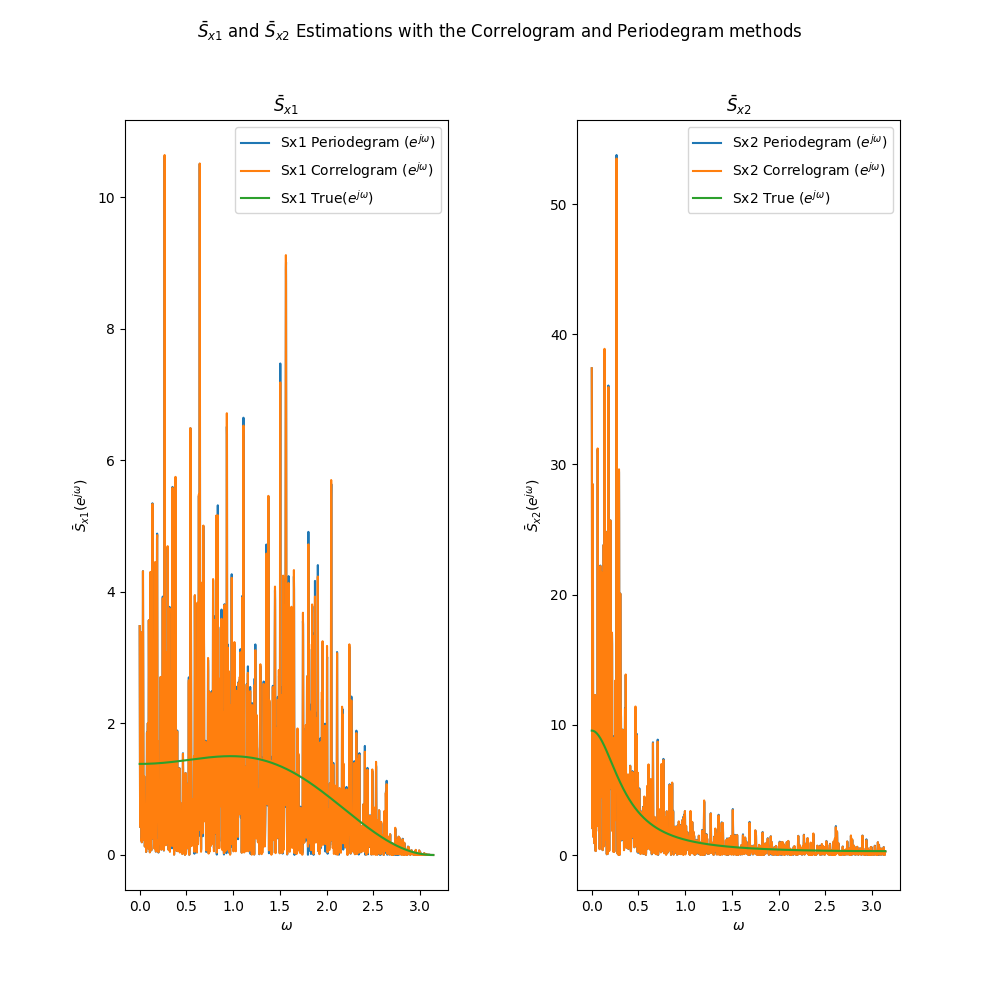
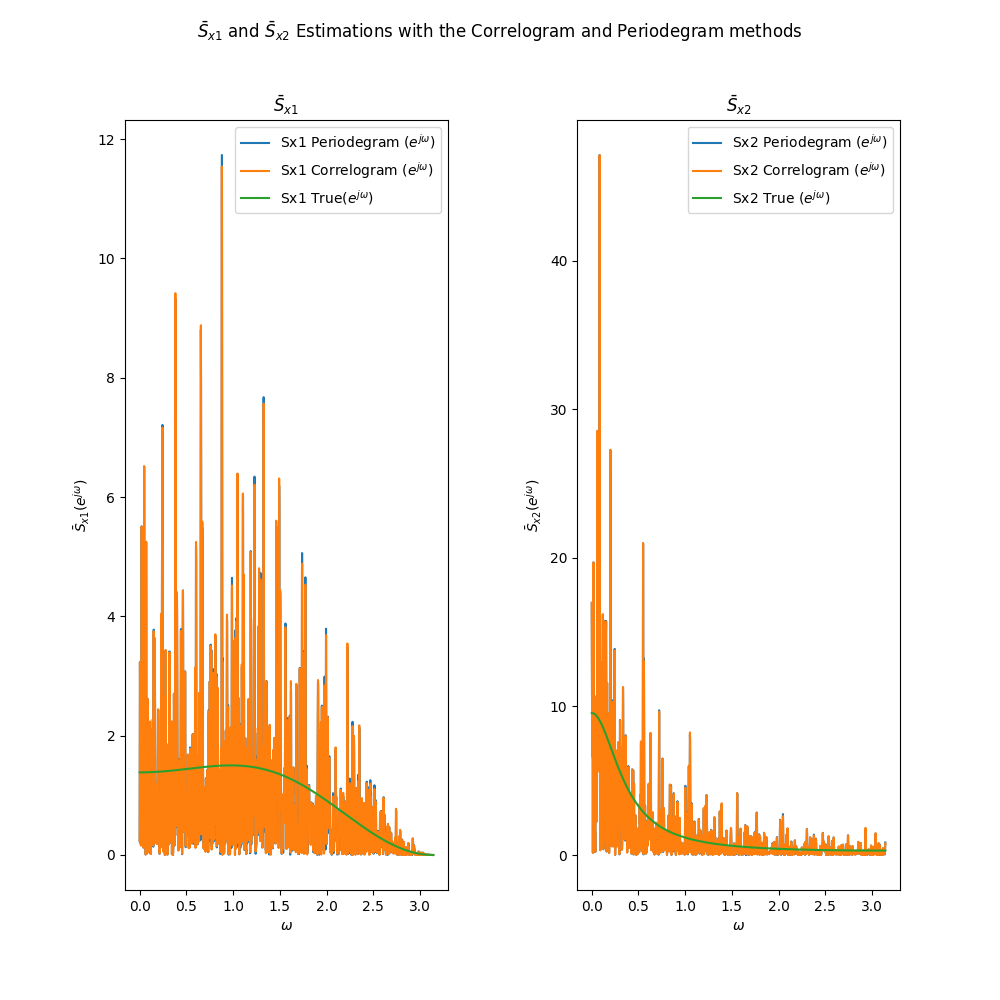
q4 finished

Changed region(s): [[0.124, 0.279, 0.434, 0.868], [0.589, 0.155, 0.899, 0.868]]

diff --git a/code_ex_1/spectral_estimation.py b/code_ex_1/spectral_estimation.py
@@ -34,7 +34,7 @@ def gen_signals(sigma_w1=np.sqrt(1/26),n1=1024,sigma_w2=np.sqrt(0.86),n2=2048): 
     x2 = x2_tmp[-1024:]
     return x1,x2
 
-Mc = 100
+Mc = 1
 Sx1_per = np.empty((Mc,2049))
 Sx1_cor = np.empty((Mc,2049))
 Sx1_bartlet_64 = np.empty((Mc,2049))
@@ -77,23 +77,28 @@ for i in tqdm(range(Mc)):
 
 #analysing stats
 #x1
-Sx1_per_bar,Sx1_per_bias,Sx1_per_var,Sx1_per_mse = get_all_stats(Sx1_per,Sx1_analytic)
-Sx1_cor_bar,Sx1_cor_bias,Sx1_cor_var,Sx1_cor_mse = get_all_stats(Sx1_cor,Sx1_analytic)
-Sx1_bartlet_64_bar,Sx1_bartlet_64_bias,Sx1_bartlet_64_var,Sx1_bartlet_64_mse = get_all_stats(Sx1_bartlet_64,Sx1_analytic)
-Sx1_bartlet_16_bar,Sx1_bartlet_16_bias,Sx1_bartlet_16_var,Sx1_bartlet_16_mse = get_all_stats(Sx1_bartlet_16,Sx1_analytic)
-Sx1_welch_64_bar,Sx1_welch_64_bias,Sx1_welch_64_var,Sx1_welch_64_mse = get_all_stats(Sx1_welch_64,Sx1_analytic)
-Sx1_welch_16_bar,Sx1_welch_16_bias,Sx1_welch_16_var,Sx1_welch_16_mse = get_all_stats(Sx1_welch_16,Sx1_analytic)
-Sx1_bt_4_bar,Sx1_bt_4_bias,Sx1_bt_4_var,Sx1_bt_4_mse = get_all_stats(Sx1_bt_4,Sx1_analytic)
-Sx1_bt_2_bar,Sx1_bt_2_bias,Sx1_bt_2_var,Sx1_bt_2_mse = get_all_stats(Sx1_bt_2,Sx1_analytic)
+Sx1_per_bar,Sx1_per_bias,Sx1_per_var,Sx1_per_mse,Sx1_per_total_bias,Sx1_per_total_var,Sx1_per_total_mse = get_all_stats(Sx1_per,Sx1_analytic)
+Sx1_cor_bar,Sx1_cor_bias,Sx1_cor_var,Sx1_cor_mse,Sx1_cor_total_bias,Sx1_cor_total_var,Sx1_cor_total_mse = get_all_stats(Sx1_cor,Sx1_analytic)
+Sx1_bartlet_64_bar,Sx1_bartlet_64_bias,Sx1_bartlet_64_var,Sx1_bartlet_64_mse,Sx1_bartlet_64_total_bias,Sx1_bartlet_64_total_var,Sx1_bartlet_64_total_mse = get_all_stats(Sx1_bartlet_64,Sx1_analytic)
+Sx1_bartlet_16_bar,Sx1_bartlet_16_bias,Sx1_bartlet_16_var,Sx1_bartlet_16_mse,Sx1_bartlet_16_total_bias,Sx1_bartlet_16_total_var,Sx1_bartlet_16_total_mse = get_all_stats(Sx1_bartlet_16,Sx1_analytic)
+Sx1_welch_64_bar,Sx1_welch_64_bias,Sx1_welch_64_var,Sx1_welch_64_mse,Sx1_welch_64_total_bias,Sx1_welch_64_total_var,Sx1_welch_64_total_mse = get_all_stats(Sx1_welch_64,Sx1_analytic)
+Sx1_welch_16_bar,Sx1_welch_16_bias,Sx1_welch_16_var,Sx1_welch_16_mse,Sx1_welch_16_total_bias,Sx1_welch_16_total_var,Sx1_welch_16_total_mse = get_all_stats(Sx1_welch_16,Sx1_analytic)
+Sx1_bt_4_bar,Sx1_bt_4_bias,Sx1_bt_4_var,Sx1_bt_4_mse,Sx1_bt_4_total_bias,Sx1_bt_4_total_var,Sx1_bt_4_total_mse = get_all_stats(Sx1_bt_4,Sx1_analytic)
+Sx1_bt_2_bar,Sx1_bt_2_bias,Sx1_bt_2_var,Sx1_bt_2_mse,Sx1_bt_2_total_bias,Sx1_bt_2_total_var,Sx1_bt_2_total_mse = get_all_stats(Sx1_bt_2,Sx1_analytic)
 #x2
-Sx2_per_bar,Sx2_per_bias,Sx2_per_var,Sx2_per_mse = get_all_stats(Sx2_per,Sx2_analytic)
-Sx2_cor_bar,Sx2_cor_bias,Sx2_cor_var,Sx2_cor_mse = get_all_stats(Sx2_cor,Sx2_analytic)
-Sx2_bartlet_64_bar,Sx2_bartlet_64_bias,Sx2_bartlet_64_var,Sx2_bartlet_64_mse = get_all_stats(Sx2_bartlet_64,Sx2_analytic)
-Sx2_bartlet_16_bar,Sx2_bartlet_16_bias,Sx2_bartlet_16_var,Sx2_bartlet_16_mse = get_all_stats(Sx2_bartlet_16,Sx2_analytic)
-Sx2_welch_64_bar,Sx2_welch_64_bias,Sx2_welch_64_var,Sx2_welch_64_mse = get_all_stats(Sx2_welch_64,Sx2_analytic)
-Sx2_welch_16_bar,Sx2_welch_16_bias,Sx2_welch_16_var,Sx2_welch_16_mse = get_all_stats(Sx2_welch_16,Sx2_analytic)
-Sx2_bt_4_bar,Sx2_bt_4_bias,Sx2_bt_4_var,Sx2_bt_4_mse = get_all_stats(Sx2_bt_4,Sx2_analytic)
-Sx2_bt_2_bar,Sx2_bt_2_bias,Sx2_bt_2_var,Sx2_bt_2_mse = get_all_stats(Sx2_bt_2,Sx2_analytic)
+Sx2_per_bar,Sx2_per_bias,Sx2_per_var,Sx2_per_mse,Sx2_per_total_bias,Sx2_per_total_var,Sx2_per_total_mse = get_all_stats(Sx2_per,Sx2_analytic)
+Sx2_cor_bar,Sx2_cor_bias,Sx2_cor_var,Sx2_cor_mse,Sx2_cor_total_bias,Sx2_cor_total_var,Sx2_cor_total_mse = get_all_stats(Sx2_cor,Sx2_analytic)
+Sx2_bartlet_64_bar,Sx2_bartlet_64_bias,Sx2_bartlet_64_var,Sx2_bartlet_64_mse,Sx2_bartlet_64_total_bias,Sx2_bartlet_64_total_var,Sx2_bartlet_64_total_mse = get_all_stats(Sx2_bartlet_64,Sx2_analytic)
+Sx2_bartlet_16_bar,Sx2_bartlet_16_bias,Sx2_bartlet_16_var,Sx2_bartlet_16_mse,Sx2_bartlet_16_total_bias,Sx2_bartlet_16_total_var,Sx2_bartlet_16_total_mse = get_all_stats(Sx2_bartlet_16,Sx2_analytic)
+Sx2_welch_64_bar,Sx2_welch_64_bias,Sx2_welch_64_var,Sx2_welch_64_mse,Sx2_welch_64_total_bias,Sx2_welch_64_total_var,Sx2_welch_64_total_mse = get_all_stats(Sx2_welch_64,Sx2_analytic)
+Sx2_welch_16_bar,Sx2_welch_16_bias,Sx2_welch_16_var,Sx2_welch_16_mse,Sx2_welch_16_total_bias,Sx2_welch_16_total_var,Sx2_welch_16_total_mse = get_all_stats(Sx2_welch_16,Sx2_analytic)
+Sx2_bt_4_bar,Sx2_bt_4_bias,Sx2_bt_4_var,Sx2_bt_4_mse,Sx2_bt_4_total_bias,Sx2_bt_4_total_var,Sx2_bt_4_total_mse = get_all_stats(Sx2_bt_4,Sx2_analytic)
+Sx2_bt_2_bar,Sx2_bt_2_bias,Sx2_bt_2_var,Sx2_bt_2_mse,Sx2_bt_2_total_bias,Sx2_bt_2_total_var,Sx2_bt_2_total_mse = get_all_stats(Sx2_bt_2,Sx2_analytic)
+
+
+#q4 stats
+
+Sx1_per_total_bias = total_bias(Sx1_per_bias)
 
 
 #plots######

diff --git a/code_ex_1/utils.py b/code_ex_1/utils.py
@@ -25,12 +25,25 @@ def get_var(Sx,Sx_true,M=4096):
 def get_MSE(var,bias):
     return var + bias**2
 
+def total_bias(B):
+    return np.sum(B)/len(B)
+def total_var(var):
+    return np.sum(var)/len(var)
+def total_mse(mse):
+    return np.sum(mse)/len(mse)
+
 def get_all_stats(Sx,Sx_true,M=4096):
     Sx_bar = get_Sx_bar(Sx)
     B = get_bias(Sx_bar,Sx_true)
     var = get_var(Sx,Sx_true)
     mse = get_MSE(var,B)
-    return Sx_bar,B,var,mse
+    bias_total = total_bias(B)
+    mse_total = total_mse(mse)
+    var_total = total_var(var)
+    return Sx_bar,B,var,mse,bias_total,var_total,mse_total
+
+
+
 
 ## helper functions
 def create_wl_mat(M=4096):
